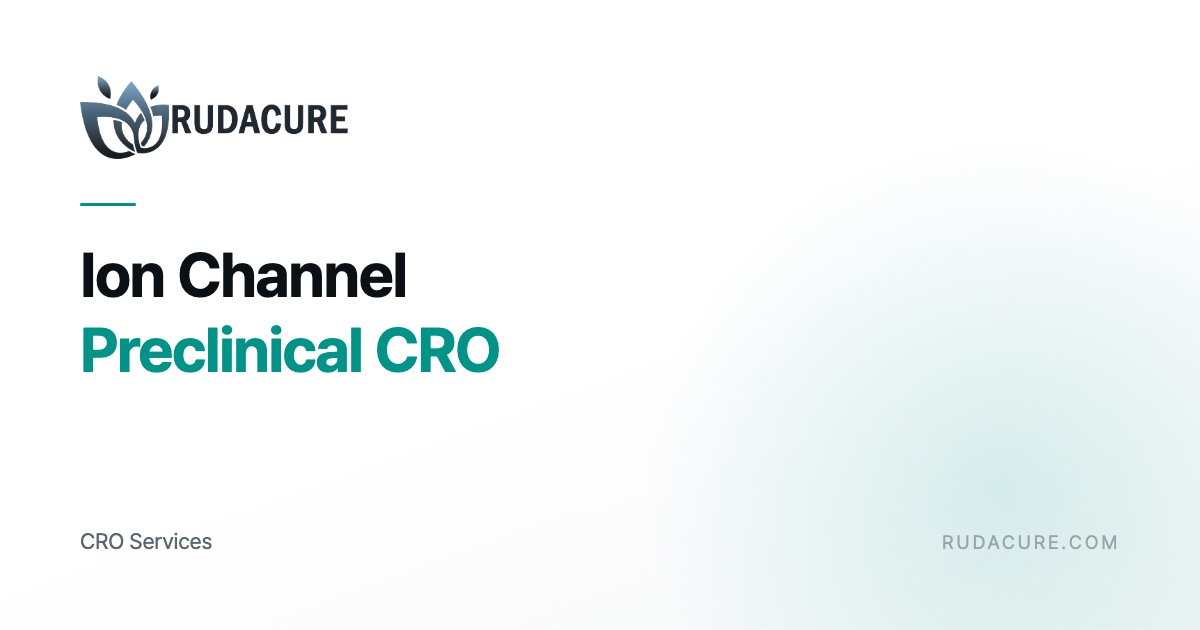
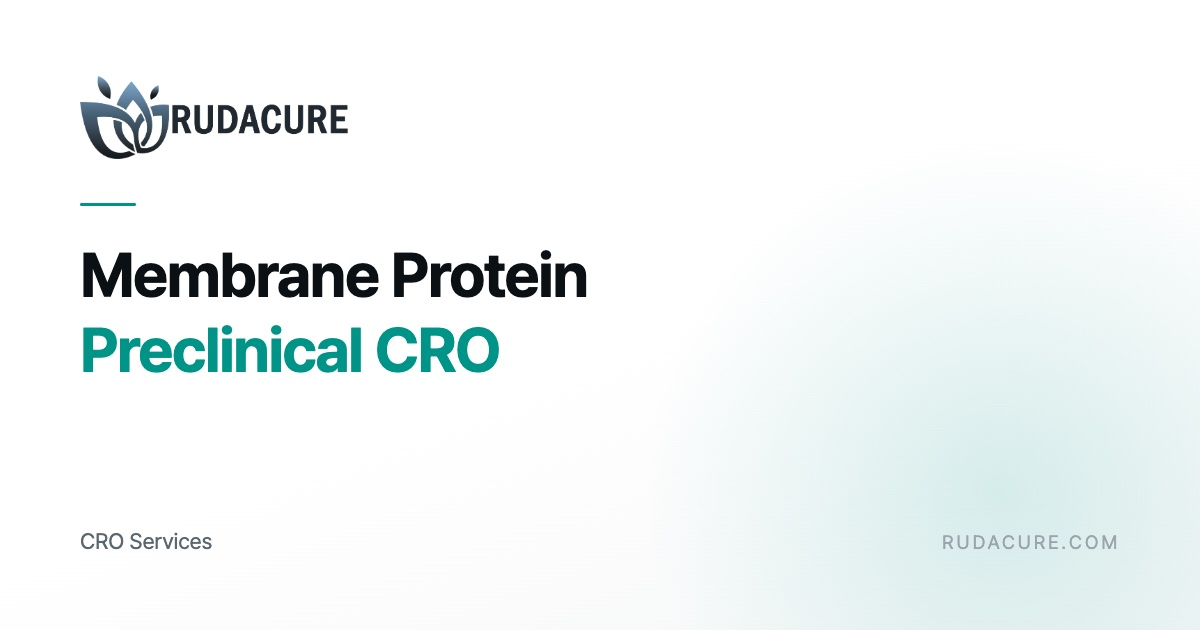
정체성 표현을 이온채널에서 막단백질로 변경
리포 전체 398건 중 정체성으로 기능하는 35곳만 변경. 자산·기술 수준의
사실과 과거 기록은 유지. 「비마약성」 재포지셔닝 때 적용한 기준과 동일.

변경 (35건)
- Pipeline: META description, HEADER description 각 6개 로케일
- Publications: 특허 포트폴리오 설명 6개 로케일
- Contact: 비전 문구 6개 로케일
- Science: 역량 카드 제목 6개 로케일, JSON-LD ResearchProject 이름·설명,
  이미지 alt
- CRO: 대제목 title1 (ko/en), 영문 META 제목
- OG 카드: CRO 2장 재생성

유지 (의도적)
- RuCIA 약자 풀이 「Rudacure Ion Channel Innovative Assessment」 13곳.
  Ion Channel을 바꾸면 플랫폼명 약자가 성립하지 않음.
- 「막단백질(이온채널·GPCR)」 패턴. 막단백질이 상위 범주, 이온채널이
  구체적 예시로 이미 올바른 표기.
- CRO 서비스 명세: 이온채널 발현 세포주, 패치클램프 활성 측정,
  TRPV1/TRPA1/Nav 어세이 항목. 구매자가 실제로 구매하는 시험 명칭이며
  막단백질로 바꾸면 다른 시험을 가리킴.
- 뉴스 JSON 191건. 이미 배포된 보도자료이므로 소급 수정하지 않음.
- 연혁(2018년 이온채널 전문 연구실 출발), SAB 위원 전문분야,
  「이온채널은 통증·온도 감각의 핵심 조절자」 같은 과학적 서술.

Changed region(s): [[0.0617, 0.3921, 0.4933, 0.4825]]

diff --git a/src/app/[locale]/pipeline/page.tsx b/src/app/[locale]/pipeline/page.tsx
@@ -15,34 +15,34 @@ export async function generateMetadata({
     en: {
       title: "Pipeline: Dry Eye (FDA Phase 2) & Non-Opioid Pain | RudaCure",
       description:
-        "RudaCure's ion channel & gene-therapy pipeline: RCI001 dry eye (FDA Phase 2, NCT07068958), RCI002 non-opioid pain, RC0125 TRPV4 gene therapy for CMT2C.",
+        "RudaCure's membrane protein & gene-therapy pipeline: RCI001 dry eye (FDA Phase 2, NCT07068958), RCI002 non-opioid pain, RC0125 TRPV4 gene therapy for CMT2C.",
     },
     ko: {
       title: "파이프라인: 안구건조증(FDA 2상)·비마약성 진통제 | RudaCure",
       description:
-        "루다큐어의 이온채널·유전자치료 파이프라인: RCI001 안구건조증(FDA 2상, NCT07068958), RCI002 비마약성 진통제, RC0125 TRPV4 유전자치료제(CMT2C).",
+        "루다큐어의 막단백질·유전자치료 파이프라인: RCI001 안구건조증(FDA 2상, NCT07068958), RCI002 비마약성 진통제, RC0125 TRPV4 유전자치료제(CMT2C).",
     },
     zh: {
       title: "研发管线：干眼症（FDA 2期）与非阿片类镇痛 | RudaCure",
       description:
-        "RudaCure离子通道与基因疗法管线：RCI001干眼症（FDA 2期，NCT07068958）、RCI002非阿片类镇痛、RC0125靶向TRPV4的CMT2C基因疗法。",
+        "RudaCure膜蛋白与基因疗法管线：RCI001干眼症（FDA 2期，NCT07068958）、RCI002非阿片类镇痛、RC0125靶向TRPV4的CMT2C基因疗法。",
     },
     ja: {
       title:
         "パイプライン：ドライアイ（FDA第2相）・非オピオイド鎮痛 | RudaCure",
       description:
-        "RudaCureのイオンチャネル・遺伝子治療パイプライン：RCI001ドライアイ（FDA第2相、NCT07068958）、RCI002非オピオイド鎮痛、RC0125 TRPV4標的CMT2C遺伝子治療。",
+        "RudaCureの膜タンパク質・遺伝子治療パイプライン：RCI001ドライアイ（FDA第2相、NCT07068958）、RCI002非オピオイド鎮痛、RC0125 TRPV4標的CMT2C遺伝子治療。",
     },
     es: {
       title: "Pipeline: Ojo Seco (Fase 2 FDA) y Dolor No Opioide | RudaCure",
       description:
-        "Pipeline de canales iónicos y terapia génica de RudaCure: RCI001 ojo seco (Fase 2 FDA, NCT07068958), RCI002 dolor no opioide, RC0125 terapia génica TRPV4 para CMT2C.",
+        "Pipeline de proteínas de membrana y terapia génica de RudaCure: RCI001 ojo seco (Fase 2 FDA, NCT07068958), RCI002 dolor no opioide, RC0125 terapia génica TRPV4 para CMT2C.",
     },
     fr: {
       title:
         "Pipeline : Œil Sec (Phase 2 FDA) et Douleur Non Opioïde | RudaCure",
       description:
-        "Pipeline canaux ioniques et thérapie génique de RudaCure : RCI001 œil sec (Phase 2 FDA, NCT07068958), RCI002 douleur non opioïde, RC0125 thérapie génique TRPV4 pour la CMT2C.",
+        "Pipeline protéines membranaires et thérapie génique de RudaCure : RCI001 œil sec (Phase 2 FDA, NCT07068958), RCI002 douleur non opioïde, RC0125 thérapie génique TRPV4 pour la CMT2C.",
     },
   };
   const m = META[locale] ?? META.en;
@@ -77,42 +77,42 @@ const HEADER: Record<
     title1: "Therapeutic",
     title2: "Pipeline",
     description:
-      "이온채널 표적 비마약성 치료제 파이프라인. RuCIA 플랫폼으로 발굴한 후보물질들이 글로벌 임상으로 진입하고 있습니다.",
+      "막단백질 표적 비마약성 치료제 파이프라인. RuCIA 플랫폼으로 발굴한 후보물질들이 글로벌 임상으로 진입하고 있습니다.",
   },
   en: {
     tag: "Drug Development",
     title1: "Therapeutic",
     title2: "Pipeline",
     description:
-      "Ion channel-targeted non-opioid therapeutic pipeline. Candidates discovered through our RuCIA platform are advancing into global clinical trials.",
+      "Membrane protein-targeted non-opioid therapeutic pipeline. Candidates discovered through our RuCIA platform are advancing into global clinical trials.",
   },
   zh: {
     tag: "药物开发",
     title1: "Therapeutic",
     title2: "Pipeline",
     description:
-      "离子通道靶向非阿片类治疗管线。通过RuCIA AI平台发现的候选药物正进入全球临床试验阶段。",
+      "膜蛋白靶向非阿片类治疗管线。通过RuCIA AI平台发现的候选药物正进入全球临床试验阶段。",
   },
   ja: {
     tag: "医薬品開発",
     title1: "Therapeutic",
     title2: "Pipeline",
     description:
-      "イオンチャネル標的非オピオイド治療パイプライン。RuCIA AIプラットフォームで発見された候補物質がグローバル臨床試験に進んでいます。",
+      "膜タンパク質標的非オピオイド治療パイプライン。RuCIA AIプラットフォームで発見された候補物質がグローバル臨床試験に進んでいます。",
   },
   es: {
     tag: "Desarrollo de Fármacos",
     title1: "Therapeutic",
     title2: "Pipeline",
     description:
-      "Pipeline terapéutico no opioide dirigido a canales iónicos. Los candidatos descubiertos a través de nuestra plataforma RuCIA están avanzando hacia ensayos clínicos globales.",
+      "Pipeline terapéutico no opioide dirigido a proteínas de membrana. Los candidatos descubiertos a través de nuestra plataforma RuCIA están avanzando hacia ensayos clínicos globales.",
   },
   fr: {
     tag: "Développement de Médicaments",
     title1: "Therapeutic",
     title2: "Pipeline",
     description:
-      "Pipeline thérapeutique non opioïde ciblant les canaux ioniques. Les candidats découverts via notre plateforme RuCIA progressent vers les essais cliniques mondiaux.",
+      "Pipeline thérapeutique non opioïde ciblant les protéines membranaires. Les candidats découverts via notre plateforme RuCIA progressent vers les essais cliniques mondiaux.",
   },
 };
 

diff --git a/src/app/[locale]/contact/page.tsx b/src/app/[locale]/contact/page.tsx
@@ -35,7 +35,7 @@ type ContentMap = Record<string, ContactContent>;
 const C: ContentMap = {
   ko: {
     tag: "문의하기", title1: "함께", title2: "꿈꾸기",
-    description: "인간의 기본 존엄성인 통증 없는 삶을 지키기 위해, 첨단 이온채널 기술로 인류의 미래를 만드는 회사입니다. 이 철학과 비전을 함께할 파트너, 투자사, CRO 협력기관을 찾고 있습니다.",
+    description: "인간의 기본 존엄성인 통증 없는 삶을 지키기 위해, 첨단 막단백질 기술로 인류의 미래를 만드는 회사입니다. 이 철학과 비전을 함께할 파트너, 투자사, CRO 협력기관을 찾고 있습니다.",
     titleByType: {
       default: ["함께", "꿈꾸기"],
       "파트너십 / 라이선싱": ["함께", "만드는 혁신"],
@@ -53,7 +53,7 @@ const C: ContentMap = {
   },
   en: {
     tag: "Get in Touch", title1: "Shape", title2: "Tomorrow",
-    description: "Grounded in the philosophy that freedom from pain is fundamental to human dignity, we harness cutting-edge ion channel technology to restore the quality of life and shape the future of humanity. We seek partners who share this vision.",
+    description: "Grounded in the philosophy that freedom from pain is fundamental to human dignity, we harness cutting-edge membrane protein technology to restore the quality of life and shape the future of humanity. We seek partners who share this vision.",
     titleByType: {
       default: ["Shape", "Tomorrow"],
       "Partnership / Licensing": ["Build", "Together"],
@@ -71,7 +71,7 @@ const C: ContentMap = {
   },
   zh: {
     tag: "联系我们", title1: "塑造", title2: "未来",
-    description: "基于无痛是人类基本尊严的哲学，我们运用尖端离子通道技术来恢复生活质量，塑造人类的未来。我们寻找志同道合的合作伙伴、投资者和CRO机构。",
+    description: "基于无痛是人类基本尊严的哲学，我们运用尖端膜蛋白技术来恢复生活质量，塑造人类的未来。我们寻找志同道合的合作伙伴、投资者和CRO机构。",
     titleByType: {
       default: ["塑造", "未来"],
       "合作 / 许可": ["携手", "创新"],
@@ -89,7 +89,7 @@ const C: ContentMap = {
   },
   ja: {
     tag: "お問い合わせ", title1: "未来を", title2: "つくる",
-    description: "痛みのない生活は人間の基本的な尊厳である、という哲学に基づき、先端的なイオンチャネル技術で生活の質を取り戻し、人類の未来を創造します。このビジョンを共有するパートナーを募集しています。",
+    description: "痛みのない生活は人間の基本的な尊厳である、という哲学に基づき、先端的な膜タンパク質技術で生活の質を取り戻し、人類の未来を創造します。このビジョンを共有するパートナーを募集しています。",
     titleByType: {
       default: ["未来を", "つくる"],
       "パートナーシップ / ライセンシング": ["一緒に", "創造する"],
@@ -107,7 +107,7 @@ const C: ContentMap = {
   },
   es: {
     tag: "Contáctenos", title1: "Moldear", title2: "el Futuro",
-    description: "Basados en la filosofía de que una vida libre del dolor es fundamental para la dignidad humana, utilizamos tecnología de canales iónicos de vanguardia para restaurar la calidad de vida y moldear el futuro de la humanidad. Buscamos socios que compartan esta visión.",
+    description: "Basados en la filosofía de que una vida libre del dolor es fundamental para la dignidad humana, utilizamos tecnología de proteínas de membrana de vanguardia para restaurar la calidad de vida y moldear el futuro de la humanidad. Buscamos socios que compartan esta visión.",
     titleByType: {
       default: ["Moldear", "el Futuro"],
       "Alianza / Licencia": ["Construir", "Juntos"],
@@ -125,7 +125,7 @@ const C: ContentMap = {
   },
   fr: {
     tag: "Nous contacter", title1: "Façonner", title2: "l'Avenir",
-    description: "Fondés sur la philosophie que la vie sans douleur est fondamentale à la dignité humaine, nous exploitons la technologie des canaux ioniques de pointe pour restaurer la qualité de vie et façonner l'avenir de l'humanité. Nous recherchons des partenaires qui partagent cette vision.",
+    description: "Fondés sur la philosophie que la vie sans douleur est fondamentale à la dignité humaine, nous exploitons la technologie des protéines membranaires de pointe pour restaurer la qualité de vie et façonner l'avenir de l'humanité. Nous recherchons des partenaires qui partagent cette vision.",
     titleByType: {
       default: ["Façonner", "l'Avenir"],
       "Partenariat / Licence": ["Construire", "Ensemble"],

diff --git a/src/app/[locale]/publications/page.tsx b/src/app/[locale]/publications/page.tsx
@@ -1006,7 +1006,7 @@ const CONTENT: Record<SupportedLocale, ContentBlock> = {
       "루다큐어의 핵심 기술과 연구 성과를 보호하는 특허 포트폴리오 및 주요 학술 논문입니다.",
     patentsTitle: "특허 포트폴리오",
     patentsDescription:
-      "이온채널 신약개발 핵심 기술에 대한 글로벌 지식재산권을 확보하고 있습니다.",
+      "막단백질 신약개발 핵심 기술에 대한 글로벌 지식재산권을 확보하고 있습니다.",
     papersTitle: "주요 연구 논문",
     papersDescription:
       "국내외 SCI급 저널에 게재된 루다큐어의 핵심 연구 성과입니다.",
@@ -1039,7 +1039,7 @@ const CONTENT: Record<SupportedLocale, ContentBlock> = {
       "Our patent portfolio and key academic publications protecting and advancing RudaCure's core technology and research achievements.",
     patentsTitle: "Patent Portfolio",
     patentsDescription:
-      "Securing global intellectual property rights for core ion channel drug discovery technologies.",
+      "Securing global intellectual property rights for core membrane protein drug discovery technologies.",
     papersTitle: "Key Research Papers",
     papersDescription:
       "RudaCure's key research achievements published in domestic and international SCI-indexed journals.",
@@ -1071,7 +1071,7 @@ const CONTENT: Record<SupportedLocale, ContentBlock> = {
     description:
       "保护和推进RudaCure核心技术与研究成果的专利组合及重要学术论文。",
     patentsTitle: "专利组合",
-    patentsDescription: "为离子通道新药开发核心技术获取全球知识产权。",
+    patentsDescription: "为膜蛋白新药开发核心技术获取全球知识产权。",
     papersTitle: "重要研究论文",
     papersDescription: "RudaCure发表在国内外SCI级期刊上的核心研究成果。",
     trademarksTitle: "商标注册",
@@ -1103,7 +1103,7 @@ const CONTENT: Record<SupportedLocale, ContentBlock> = {
       "RudaCureのコア技術と研究成果を保護する特許ポートフォリオおよび主要な学術論文です。",
     patentsTitle: "特許ポートフォリオ",
     patentsDescription:
-      "イオンチャネル新薬開発のコア技術に関するグローバルな知的財産権を確保しています。",
+      "膜タンパク質新薬開発のコア技術に関するグローバルな知的財産権を確保しています。",
     papersTitle: "主要研究論文",
     papersDescription:
       "国内外のSCI級ジャーナルに掲載されたRudaCureの主要な研究成果です。",
@@ -1136,7 +1136,7 @@ const CONTENT: Record<SupportedLocale, ContentBlock> = {
       "Nuestro portafolio de patentes y publicaciones académicas clave que protegen y avanzan la tecnología central y los logros de investigación de RudaCure.",
     patentsTitle: "Portafolio de Patentes",
     patentsDescription:
-      "Asegurando derechos de propiedad intelectual globales para las tecnologías centrales de descubrimiento de fármacos de canales iónicos.",
+      "Asegurando derechos de propiedad intelectual globales para las tecnologías centrales de descubrimiento de fármacos de proteínas de membrana.",
     papersTitle: "Publicaciones de Investigación Clave",
     papersDescription:
       "Logros de investigación clave de RudaCure publicados en revistas indexadas SCI nacionales e internacionales.",
@@ -1169,7 +1169,7 @@ const CONTENT: Record<SupportedLocale, ContentBlock> = {
       "Notre portefeuille de brevets et nos publications académiques clés protégeant et faisant avancer la technologie centrale et les réalisations de recherche de RudaCure.",
     patentsTitle: "Portefeuille de Brevets",
     patentsDescription:
-      "Sécurisation des droits de propriété intellectuelle mondiaux pour les technologies de découverte de médicaments ciblant les canaux ioniques.",
+      "Sécurisation des droits de propriété intellectuelle mondiaux pour les technologies de découverte de médicaments ciblant les protéines membranaires.",
     papersTitle: "Publications de Recherche Clés",
     papersDescription:
       "Réalisations de recherche clés de RudaCure publiées dans des revues indexées SCI nationales et internationales.",

diff --git a/src/app/[locale]/science/page.tsx b/src/app/[locale]/science/page.tsx
@@ -18,7 +18,7 @@ const CAPABILITIES: Record<
 > = {
   ko: [
     {
-      title: "이온채널 전문성",
+      title: "막단백질 전문성",
       description:
         "TRPV1, TRPA1, TRPV4 등 통증/감각 신호를 조절하는 이온채널에 특화. AI가 채널-리간드 상호작용을 예측하여 선택적 후보물질을 발굴합니다.",
       image: "/images/science/membrane-md.jpg",
@@ -44,7 +44,7 @@ const CAPABILITIES: Record<
   ],
   en: [
     {
-      title: "Ion Channel Mastery",
+      title: "Membrane Protein Mastery",
       description:
         "Specialized in ion channels governing pain and sensory signals including TRPV1, TRPA1, and TRPV4. AI predicts channel-ligand interactions to discover selective drug candidates.",
       image: "/images/science/membrane-md.jpg",
@@ -70,7 +70,7 @@ const CAPABILITIES: Record<
   ],
   zh: [
     {
-      title: "离子通道专业能力",
+      title: "膜蛋白专业能力",
       description:
         "专注于调控疼痛与感觉信号的离子通道，包括TRPV1、TRPA1和TRPV4。AI预测通道-配体相互作用，发现高选择性候选药物。",
       image: "/images/science/membrane-md.jpg",
@@ -96,7 +96,7 @@ const CAPABILITIES: Record<
   ],
   ja: [
     {
-      title: "イオンチャネル専門性",
+      title: "膜タンパク質専門性",
       description:
         "TRPV1、TRPA1、TRPV4など痛覚・感覚シグナルを制御するイオンチャネルに特化。AIがチャネル-リガンド相互作用を予測し、選択的候補物質を発掘します。",
       image: "/images/science/membrane-md.jpg",
@@ -122,7 +122,7 @@ const CAPABILITIES: Record<
   ],
   es: [
     {
-      title: "Dominio de Canales Iónicos",
+      title: "Dominio de Proteínas de Membrana",
       description:
         "Especializados en canales iónicos que regulan señales de dolor y sensoriales, incluyendo TRPV1, TRPA1 y TRPV4. La IA predice interacciones canal-ligando para descubrir candidatos farmacológicos selectivos.",
       image: "/images/science/membrane-md.jpg",
@@ -148,7 +148,7 @@ const CAPABILITIES: Record<
   ],
   fr: [
     {
-      title: "Expertise en Canaux Ioniques",
+      title: "Expertise en Protéines Membranaires",
       description:
         "Spécialisés dans les canaux ioniques régulant les signaux de douleur et sensoriels, notamment TRPV1, TRPA1 et TRPV4. L'IA prédit les interactions canal-ligand pour découvrir des candidats médicaments sélectifs.",
       image: "/images/science/membrane-md.jpg",
@@ -600,9 +600,9 @@ export default async function SciencePage({
               },
               {
                 "@type": "ResearchProject",
-                name: "RudaCure Ion Channel Drug Discovery Program",
+                name: "RudaCure Membrane Protein Drug Discovery Program",
                 description:
-                  "AI-powered ion channel drug discovery program targeting TRPV1, TRPA1, and Nav channels for pain, dry eye disease, and dermatology. Uses RuCIA platform combining molecular simulation with high-throughput electrophysiology. Ion channels account for ~60% of approved drug targets but remain technically difficult to screen without specialized platforms.",
+                  "AI-powered membrane protein drug discovery program targeting TRPV1, TRPA1, and Nav channels for pain, dry eye disease, and dermatology. Uses RuCIA platform combining molecular simulation with high-throughput electrophysiology. Ion channels account for ~60% of approved drug targets but remain technically difficult to screen without specialized platforms.",
                 url: "https://www.rudacure.com/science",
                 foundingOrganization: {
                   "@type": "Organization",
@@ -810,7 +810,7 @@ export default async function SciencePage({
             <div className="relative aspect-square rounded-2xl overflow-hidden shadow-xl">
               <Image
                 src="/images/science/membrane-md.jpg"
-                alt="Ion Channel Research"
+                alt="Membrane Protein Research"
                 fill
                 className="object-cover"
               />

diff --git a/src/app/[locale]/cro/page.tsx b/src/app/[locale]/cro/page.tsx
@@ -19,7 +19,7 @@ const META: Record<CROLocale, { title: string; description: string }> = {
       "이온채널 약리학에 특화된 비임상 CRO. TRPV1, TRPA1, Nav 채널 표적 만성통증·안구건조증 후보물질의 효능 평가. 19+ 위탁과제 수행 실적, FLIPR Penta HTS, 13+ 동물모델 운용.",
   },
   en: {
-    title: "Ion Channel CRO — Pain, Dry Eye & Electrophysiology | RudaCure",
+    title: "Membrane Protein CRO — Pain, Dry Eye & Electrophysiology | RudaCure",
     description:
       "Ion channel–specialized preclinical CRO: TRPV1/TRPA1/Nav screening via FLIPR Penta and patch-clamp electrophysiology, 13+ chronic pain and dry-eye models, 19+ completed contracts.",
   },
@@ -120,7 +120,7 @@ type Content = {
 const CONTENT: Record<CROLocale, Content> = {
   ko: {
     tag: "CRO 서비스",
-    title1: "Ion Channel",
+    title1: "Membrane Protein",
     title2: "Preclinical CRO",
     description:
       "TRPV1·TRPA1·Nav 이온채널을 중심으로 만성통증·안구건조증 후보물질의 비임상 효능을 평가하는 전문 CRO입니다. 전기생리학 기반 세포 실험부터 복잡한 동물 행동 평가까지, 약물 개발의 비임상 단계 전 과정을 체계적으로 지원합니다.",
@@ -414,7 +414,7 @@ const CONTENT: Record<CROLocale, Content> = {
   },
   en: {
     tag: "CRO Services",
-    title1: "Ion Channel",
+    title1: "Membrane Protein",
     title2: "Preclinical CRO",
     description:
       "Specialized preclinical CRO evaluating chronic pain and dry eye disease candidates targeting TRPV1, TRPA1, and Nav ion channels. From electrophysiology-based cell assays to complex animal behavior studies, we cover the full preclinical drug development pipeline.",
